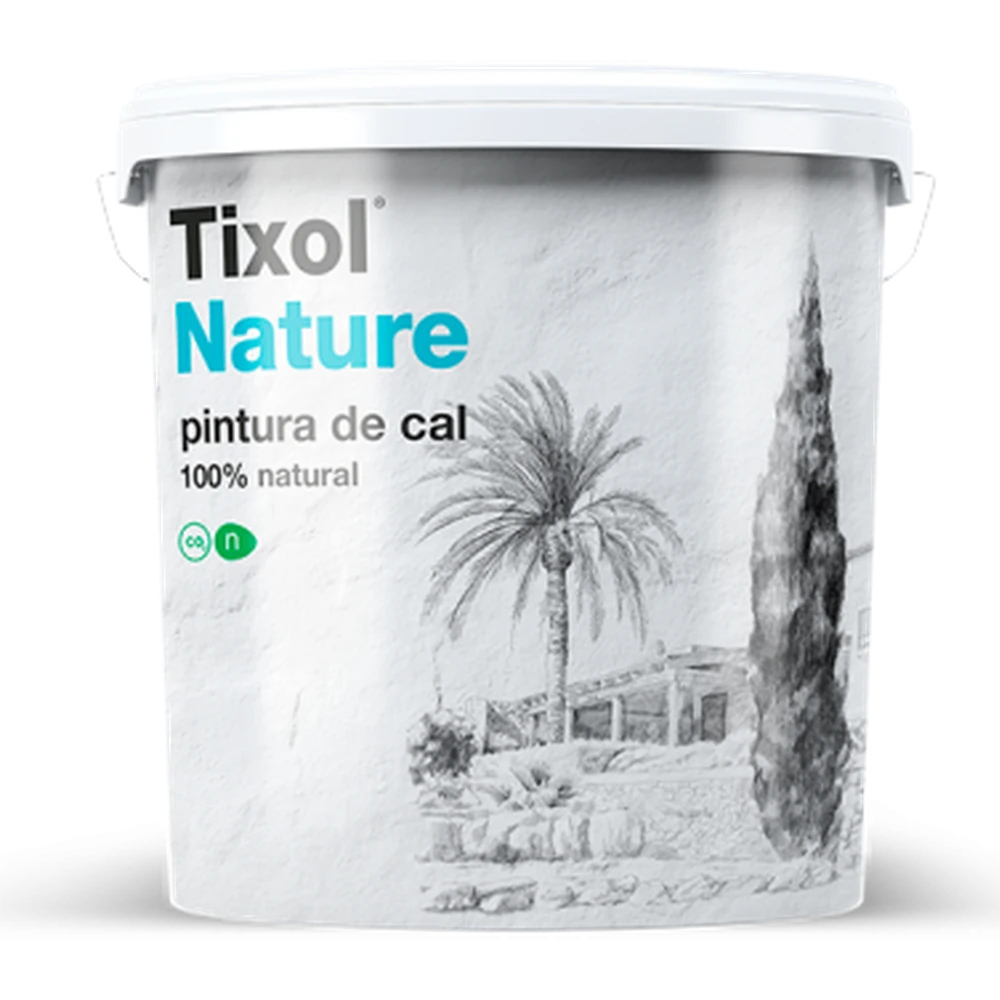
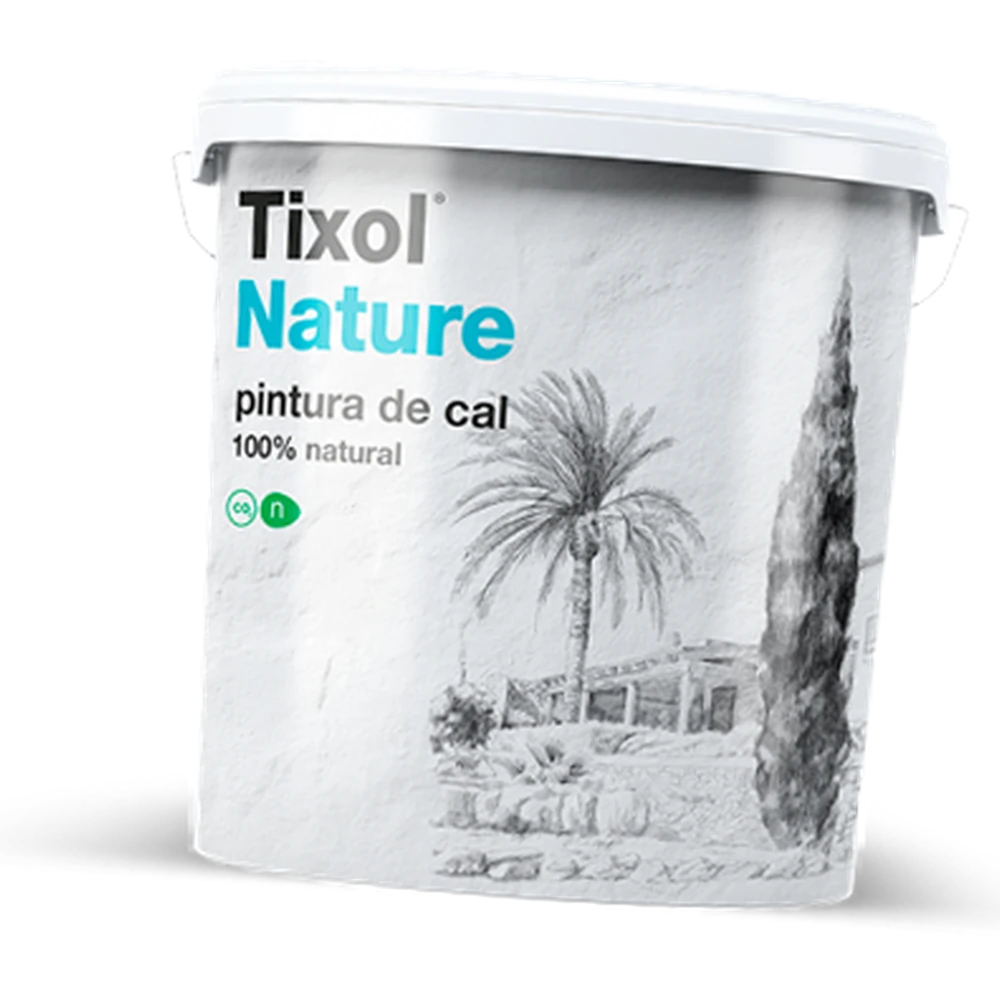
feat(hero): escaparate sin fondo + flechas + Tixol enderezado + KBYO de Rugoplast
- Escaparate del hero SIN fondo: los botes flotan sobre el rojo (fuera el marco
  claro), con sombra propia (drop-shadow) para asentarlos.
- Flechas sutiles (‹ ›) para pasar al bote anterior/siguiente a mano; reinician el
  auto-pase al pulsar.
- Tixol enderezado (rotación -4° corregida; ya se ve de frente).
- Añadido KBYO Fachadas (Rugoplast) — top de ventas — con su foto oficial recortada;
  va primero en el escaparate. Cache-bust ?v=5. Ahora 6 productos.

Changed region(s): [[0.062, 0.093, 0.961, 0.93], [0.155, 0.713, 0.217, 0.775], [0.713, 0.372, 0.744, 0.403]]

diff --git a/src/styles/global.css b/src/styles/global.css
@@ -558,9 +558,6 @@ body.modal-lock {
 .hero-showcase {
   position: relative;
   aspect-ratio: 4 / 3;
-  background:
-    radial-gradient(120% 100% at 50% 28%, #ffffff, transparent 68%),
-    linear-gradient(165deg, #f7f3ec, #e7e0d3);
 }
 @media (min-width: 768px) {
   .hero-showcase {
@@ -573,9 +570,11 @@ body.modal-lock {
   width: 100%;
   height: 100%;
   object-fit: contain;
-  padding: 7%;
+  padding: 3%;
   opacity: 0;
   transform: scale(0.97);
+  /* Sombra propia para asentar el bote sobre el rojo del hero (sin marco). */
+  filter: drop-shadow(0 24px 34px rgba(45, 5, 7, 0.55));
   transition:
     opacity 0.7s ease,
     transform 0.7s var(--ease-suave);
@@ -585,10 +584,36 @@ body.modal-lock {
   opacity: 1;
   transform: none;
 }
+/* Flechas sutiles para pasar de bote (sobre el rojo del hero). */
+.hero-showcase__nav {
+  display: grid;
+  place-items: center;
+  width: 34px;
+  height: 34px;
+  border-radius: 9999px;
+  color: #fff;
+  cursor: pointer;
+  border: 1px solid rgba(255, 255, 255, 0.35);
+  background: rgba(255, 255, 255, 0.14);
+  -webkit-backdrop-filter: blur(6px);
+  backdrop-filter: blur(6px);
+  transition:
+    background-color 0.2s ease,
+    border-color 0.2s ease,
+    transform 0.2s var(--ease-suave);
+}
+.hero-showcase__nav:hover {
+  background: rgba(255, 255, 255, 0.28);
+  border-color: rgba(255, 255, 255, 0.6);
+  transform: translateY(-1px);
+}
 @media (prefers-reduced-motion: reduce) {
   .hero-showcase__img {
     transition: opacity 0.3s ease;
     transform: none;
+  }
+  .hero-showcase__nav {
+    transition: none;
   }
 }
 

diff --git a/src/data/site.ts b/src/data/site.ts
@@ -247,6 +247,13 @@ export const servicios = [
 // `img: null` → placeholder de marca (hasta tener la foto).
 export const productosDestacados = [
   {
+    nombre: 'KBYO Fachadas',
+    marca: 'Rugoplast',
+    tipo: 'Revestimiento de fachadas',
+    desc: 'Pintura acrílica premium para fachadas: máxima resistencia a la intemperie, alta cubrición y transpirable. Garantía de 10 años.',
+    img: '/assets/productos/rugoplast-kbyo.webp'
+  },
+  {
     nombre: 'Nakar',
     marca: 'Bupisa',
     tipo: 'Pintura plástica interior',
